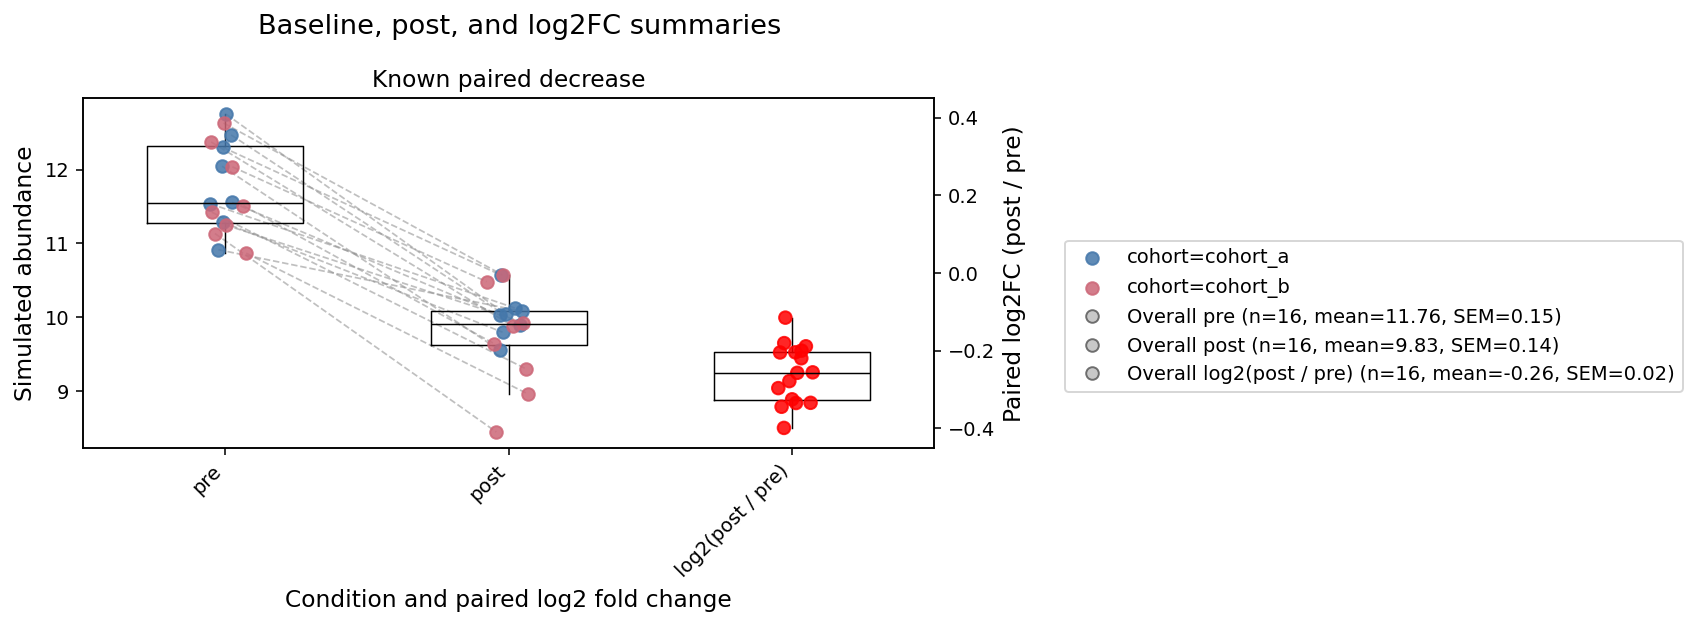
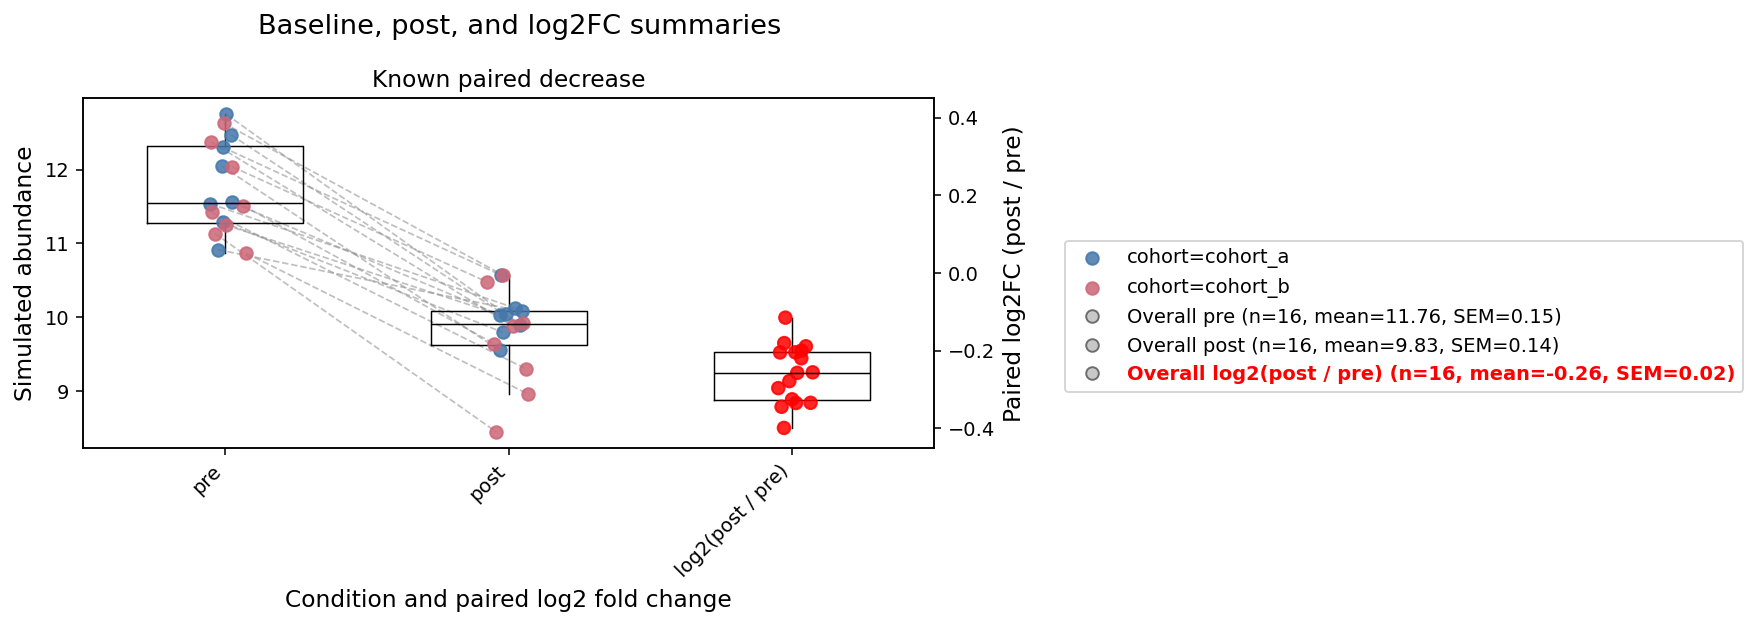
Highlight negative paired summary legends

diff --git a/tests/test_paired_datapoints.py b/tests/test_paired_datapoints.py
@@ -2293,6 +2293,164 @@ class PairedDatapointsTests(unittest.TestCase):
             ],
         )
 
+    def test_negative_mean_summary_legend_is_red_and_bold_and_can_be_disabled(self):
+        paired_df = pd.DataFrame(
+            {
+                "Pre_or_Post_obs_col": ["Pre", "Post"] * 3,
+                "Subject_ID": ["S1", "S1", "S2", "S2", "S3", "S3"],
+                "feature": [10.0, -10.0, 10.0, 11.0, 10.0, 11.0],
+            }
+        )
+        plot_kwargs = {
+            "df": paired_df,
+            "var_names": ["feature"],
+            "pair_by_key": "Subject_ID",
+            "show_paired_difference": True,
+            "legend": True,
+            "legend_metrics": ("mean", "median"),
+            "legend_metric_formats": {
+                "mean": "average={value:.1f}",
+                "median": "middle={value:.1f}",
+            },
+            "legend_summary_prefix": None,
+            "legend_metric_separator": "\n",
+            "boxplot": False,
+            "show": False,
+        }
+
+        default_fig, default_axes, _ = adtl.paired_datapoints(**plot_kwargs)
+        disabled_fig, disabled_axes, _ = adtl.paired_datapoints(
+            highlight_negative_summary_legend=False,
+            **plot_kwargs,
+        )
+        count_fig, count_axes, _ = adtl.paired_datapoints(
+            **{
+                **plot_kwargs,
+                "legend_metrics": ("count",),
+                "legend_metric_formats": None,
+            }
+        )
+        for fig in (default_fig, disabled_fig, count_fig):
+            self.addCleanup(plt.close, fig)
+
+        default_texts = default_axes["feature"].get_legend().get_texts()
+        self.assertEqual(
+            [text.get_text() for text in default_texts],
+            [
+                "Pre (average=10.0\nmiddle=10.0)",
+                "Post (average=4.0\nmiddle=11.0)",
+                "Post - Pre (average=-6.0\nmiddle=1.0)",
+            ],
+        )
+        for text in default_texts[:2]:
+            self.assertNotEqual(text.get_color(), "red")
+            self.assertNotEqual(text.get_fontweight(), "bold")
+        self.assertEqual(default_texts[2].get_color(), "red")
+        self.assertEqual(default_texts[2].get_fontweight(), "bold")
+
+        for text in disabled_axes["feature"].get_legend().get_texts():
+            self.assertNotEqual(text.get_color(), "red")
+            self.assertNotEqual(text.get_fontweight(), "bold")
+        for text in count_axes["feature"].get_legend().get_texts():
+            self.assertNotEqual(text.get_color(), "red")
+            self.assertNotEqual(text.get_fontweight(), "bold")
+
+    def test_negative_median_summary_legend_is_red_and_bold_in_figure_scope(self):
+        paired_df = pd.DataFrame(
+            {
+                "Pre_or_Post_obs_col": ["Pre", "Post"] * 3,
+                "Subject_ID": ["S1", "S1", "S2", "S2", "S3", "S3"],
+                "median_trigger": [10.0, 9.0, 10.0, 9.0, 10.0, 30.0],
+                "positive": [10.0, 11.0, 10.0, 12.0, 10.0, 13.0],
+            }
+        )
+
+        fig, axes, plot_df = adtl.paired_datapoints(
+            df=paired_df,
+            var_names=["median_trigger", "positive"],
+            pair_by_key="Subject_ID",
+            show_paired_difference=True,
+            paired_difference_mode="log2fc",
+            legend=True,
+            legend_scope="figure",
+            legend_metrics=("mean", "median"),
+            boxplot=False,
+            ncols=2,
+            show=False,
+        )
+        self.addCleanup(plt.close, fig)
+
+        derived_values = plot_df.loc[
+            (plot_df["panel"] == "median_trigger")
+            & (plot_df["side"] == "difference"),
+            "value",
+        ]
+        self.assertGreater(derived_values.mean(), 0)
+        self.assertLess(derived_values.median(), 0)
+        self.assertTrue(all(ax.get_legend() is None for ax in axes.values()))
+        self.assertEqual(len(fig.legends), 1)
+
+        legend_texts = fig.legends[0].get_texts()
+        negative_texts = [
+            text
+            for text in legend_texts
+            if text.get_text().startswith(
+                "median_trigger — Overall log2(Post / Pre)"
+            )
+        ]
+        self.assertEqual(len(negative_texts), 1)
+        self.assertEqual(negative_texts[0].get_color(), "red")
+        self.assertEqual(negative_texts[0].get_fontweight(), "bold")
+        for text in legend_texts:
+            if text is negative_texts[0]:
+                continue
+            self.assertNotEqual(text.get_color(), "red")
+            self.assertNotEqual(text.get_fontweight(), "bold")
+
+    def test_negative_endpoint_highlights_and_zero_summary_stays_neutral(self):
+        paired_df = pd.DataFrame(
+            {
+                "Pre_or_Post_obs_col": ["Pre", "Post"] * 3,
+                "Subject_ID": ["S1", "S1", "S2", "S2", "S3", "S3"],
+                "negative_endpoint": [-3.0, 1.0, -2.0, 2.0, -1.0, 3.0],
+                "zero_summary": [-1.0, -1.0, 0.0, 0.0, 1.0, 1.0],
+            }
+        )
+
+        fig, axes, _ = adtl.paired_datapoints(
+            df=paired_df,
+            var_names=["negative_endpoint", "zero_summary"],
+            pair_by_key="Subject_ID",
+            legend=True,
+            legend_metrics=("mean", "median"),
+            boxplot=False,
+            ncols=2,
+            show=False,
+        )
+        self.addCleanup(plt.close, fig)
+
+        endpoint_texts = axes["negative_endpoint"].get_legend().get_texts()
+        self.assertEqual(
+            endpoint_texts[0].get_text(),
+            "Overall Pre (mean=-2, median=-2)",
+        )
+        self.assertEqual(endpoint_texts[0].get_color(), "red")
+        self.assertEqual(endpoint_texts[0].get_fontweight(), "bold")
+        self.assertNotEqual(endpoint_texts[1].get_color(), "red")
+        self.assertNotEqual(endpoint_texts[1].get_fontweight(), "bold")
+
+        zero_texts = axes["zero_summary"].get_legend().get_texts()
+        self.assertEqual(
+            [text.get_text() for text in zero_texts],
+            [
+                "Overall Pre (mean=0, median=0)",
+                "Overall Post (mean=0, median=0)",
+            ],
+        )
+        for text in zero_texts:
+            self.assertNotEqual(text.get_color(), "red")
+            self.assertNotEqual(text.get_fontweight(), "bold")
+
     def test_legend_metrics_keep_subset_rows_first_and_axis_summaries_panel_local(self):
         fig, axes, _ = adtl.paired_datapoints(
             adata=self.make_adata(),
@@ -2651,6 +2809,7 @@ class PairedDatapointsTests(unittest.TestCase):
                 subplot_title_fontsize=None,
                 legend_summary_prefix="Overall",
                 legend_metric_separator=", ",
+                highlight_negative_summary_legend=True,
                 **plot_kwargs,
             )
         self.addCleanup(plt.close, omitted_fig)

diff --git a/_plotting/_datapoints.py b/_plotting/_datapoints.py
@@ -1567,6 +1567,7 @@ def paired_datapoints(
     ] | None = None,
     legend_summary_prefix: str | None = "Overall",
     legend_metric_separator: str = ", ",
+    highlight_negative_summary_legend: bool = True,
     ncols: int = 3,
     figsize: tuple[float, float] | None = None,
     wspace: float | None = None,
@@ -2459,8 +2460,11 @@ def paired_datapoints(
         str, list[tuple[Any, str]]
     ] = {}
     summary_legend_entries_by_panel: dict[
-        str, list[tuple[Any, str]]
+        str, list[tuple[Any, str, bool]]
     ] = {}
+    legend_entries_to_style: list[
+        tuple[Any, list[tuple[Any, str, bool]]]
+    ] = []
     for plot_idx, panel_name in enumerate(plot_panel_names):
         ax = axes_flat[plot_idx]
         axes_by_panel[panel_name] = ax
@@ -2702,7 +2706,7 @@ def paired_datapoints(
         subset_handles, subset_labels = ax.get_legend_handles_labels()
         subset_legend_entries = list(zip(subset_handles, subset_labels))
         subset_legend_entries_by_panel[panel_name] = subset_legend_entries
-        summary_legend_entries: list[tuple[Any, str]] = []
+        summary_legend_entries: list[tuple[Any, str, bool]] = []
         if summary_legend_enabled:
             summary_categories = [("ref", ref_label), ("target", target_label)]
             if show_paired_difference:
@@ -2743,11 +2747,18 @@ def paired_datapoints(
                             normalized_metric_formats,
                             metric_separator=legend_metric_separator,
                         ),
+                        any(
+                            _legend_metric_value(metric_name, finite_values) < 0
+                            for metric_name in metric_names
+                            if metric_name in {"mean", "median"}
+                        ),
                     )
                 )
         summary_legend_entries_by_panel[panel_name] = summary_legend_entries
 
-        axis_legend_entries = subset_legend_entries + summary_legend_entries
+        axis_legend_entries = [
+            (handle, label, False) for handle, label in subset_legend_entries
+        ] + summary_legend_entries
         if legend and legend_scope == "axis" and axis_legend_entries:
             legend_kwargs: dict[str, Any] = {"fontsize": legend_fontsize}
             if active_subset_key is not None and not summary_legend_enabled:
@@ -2756,11 +2767,12 @@ def paired_datapoints(
                 legend_kwargs["loc"] = legend_loc
             if legend_bbox_to_anchor is not None:
                 legend_kwargs["bbox_to_anchor"] = legend_bbox_to_anchor
-            ax.legend(
-                [handle for handle, _label in axis_legend_entries],
-                [label for _handle, label in axis_legend_entries],
+            legend_obj = ax.legend(
+                [handle for handle, _label, _is_negative in axis_legend_entries],
+                [label for _handle, label, _is_negative in axis_legend_entries],
                 **legend_kwargs,
             )
+            legend_entries_to_style.append((legend_obj, axis_legend_entries))
 
     if difference_axes:
         if paired_difference_ylims_tuple is not None:
@@ -2786,7 +2798,7 @@ def paired_datapoints(
         ax.set_visible(False)
 
     if legend and legend_scope == "figure":
-        figure_legend_entries: list[tuple[Any, str]] = []
+        figure_legend_entries: list[tuple[Any, str, bool]] = []
         if active_subset_key is not None and subset_hue_order:
             ordered_subset_labels = [
                 f"{active_subset_key}={subset_value}"
@@ -2805,20 +2817,23 @@ def paired_datapoints(
                     ):
                         subset_handles_by_label[label] = handle
             figure_legend_entries.extend(
-                (subset_handles_by_label[label], label)
+                (subset_handles_by_label[label], label, False)
                 for label in ordered_subset_labels
                 if label in subset_handles_by_label
             )
         if summary_legend_enabled:
             prefix_panel = len(plot_panel_names) > 1
             for panel_name in plot_panel_names:
-                for handle, label in summary_legend_entries_by_panel.get(
+                panel_summary_entries = summary_legend_entries_by_panel.get(
                     panel_name, []
-                ):
+                )
+                for handle, label, is_negative in panel_summary_entries:
                     figure_label = (
                         f"{panel_name} — {label}" if prefix_panel else label
                     )
-                    figure_legend_entries.append((handle, figure_label))
+                    figure_legend_entries.append(
+                        (handle, figure_label, is_negative)
+                    )
         if figure_legend_entries:
             legend_kwargs = {"fontsize": legend_fontsize}
             if active_subset_key is not None and not summary_legend_enabled:
@@ -2827,11 +2842,21 @@ def paired_datapoints(
                 legend_kwargs["loc"] = legend_loc
             if legend_bbox_to_anchor is not None:
                 legend_kwargs["bbox_to_anchor"] = legend_bbox_to_anchor
-            fig.legend(
-                [handle for handle, _label in figure_legend_entries],
-                [label for _handle, label in figure_legend_entries],
+            legend_obj = fig.legend(
+                [handle for handle, _label, _is_negative in figure_legend_entries],
+                [label for _handle, label, _is_negative in figure_legend_entries],
                 **legend_kwargs,
             )
+            legend_entries_to_style.append((legend_obj, figure_legend_entries))
+
+    if highlight_negative_summary_legend:
+        for legend_obj, legend_entries in legend_entries_to_style:
+            for legend_text, (_handle, _label, is_negative) in zip(
+                legend_obj.get_texts(), legend_entries
+            ):
+                if is_negative:
+                    legend_text.set_color("red")
+                    legend_text.set_fontweight("bold")
 
     plt.tight_layout()
     subplot_adjust_kwargs: dict[str, float] = {}

diff --git a/example_plotting_gallery/manifest.py b/example_plotting_gallery/manifest.py
@@ -580,6 +580,7 @@ RENDERER_MANIFEST: tuple[RendererSpec, ...] = (
                     "raw paired-difference summary statistics",
                     "subset hue entries before overall summaries",
                     "custom-formatted count, mean, and SEM legend",
+                    "red bold highlighting for negative mean summaries",
                 ),
             ),
             GalleryCase(
@@ -591,6 +592,7 @@ RENDERER_MANIFEST: tuple[RendererSpec, ...] = (
                     "paired log2 fold-change summary statistics",
                     "subset hue entries before overall summaries",
                     "custom-formatted count, mean, and SEM legend",
+                    "red bold highlighting for negative mean summaries",
                 ),
             ),
             GalleryCase(

diff --git a/docs/_paired_datapoints.md b/docs/_paired_datapoints.md
@@ -96,6 +96,7 @@ def paired_datapoints(
     ] | None = None,
     legend_summary_prefix: str | None = "Overall",
     legend_metric_separator: str = ", ",
+    highlight_negative_summary_legend: bool = True,
     ncols: int = 3,
     figsize: tuple[float, float] | None = None,
     wspace: float | None = None,
@@ -458,6 +459,14 @@ placeholders, or format specifications raise before drawing.
 Its default `", "` preserves comma-separated labels. Set it to `"\n"` to place
 each metric on its own line without adding newline characters to the individual
 `legend_metric_formats` strings.
+
+By default, `highlight_negative_summary_legend=True` renders an entire summary
+row in red bold text when any displayed `mean` or `median` is less than zero.
+The decision uses the exact finite summary value before label formatting, so a
+custom format or rounded display cannot change the classification. `count`,
+`std`, and `sem` do not trigger highlighting. Set
+`highlight_negative_summary_legend=False` to retain Matplotlib's default legend
+text styling.
 
 When a subset hue is active, its entries remain first and the overall
 per-position summaries follow them. With metrics enabled, subset entries are
